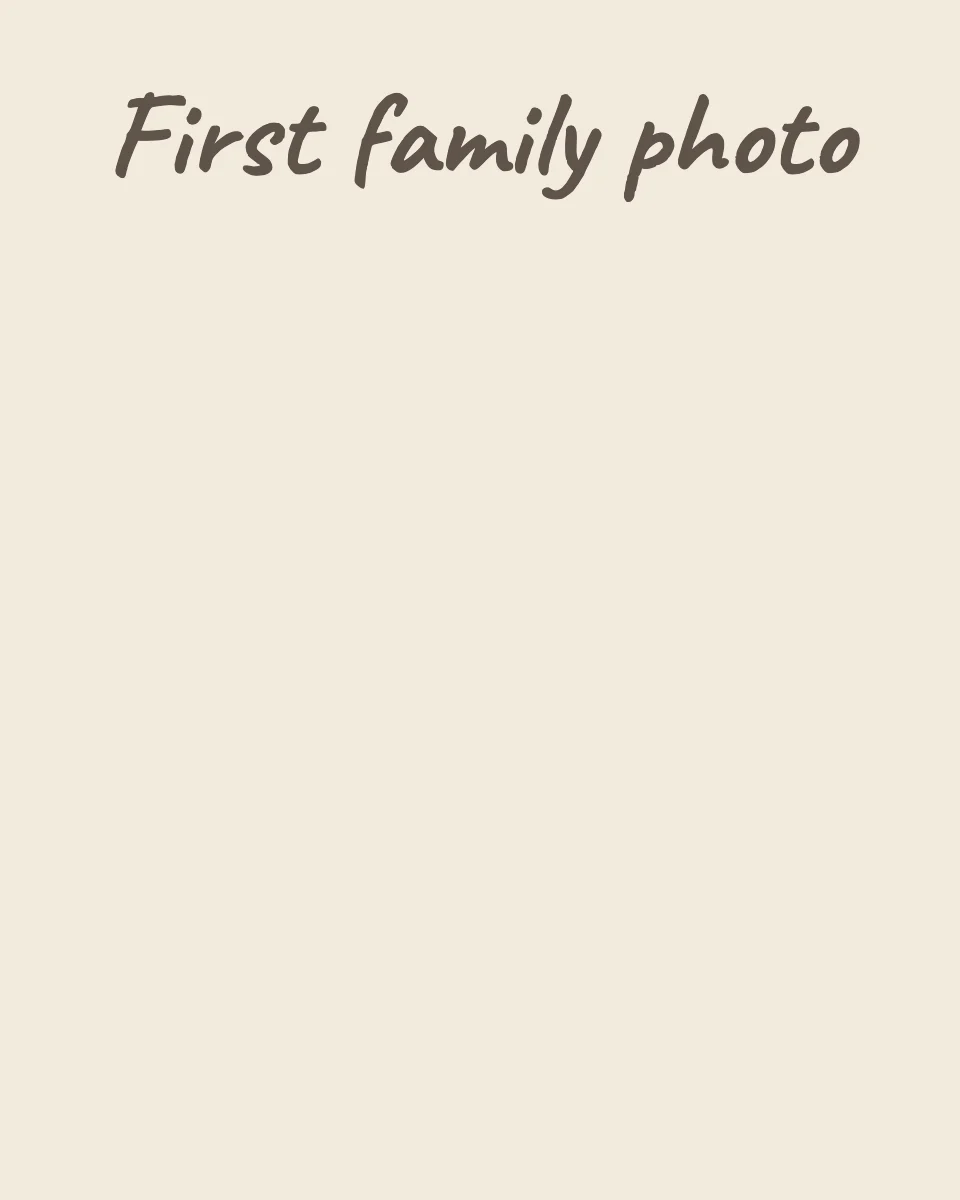
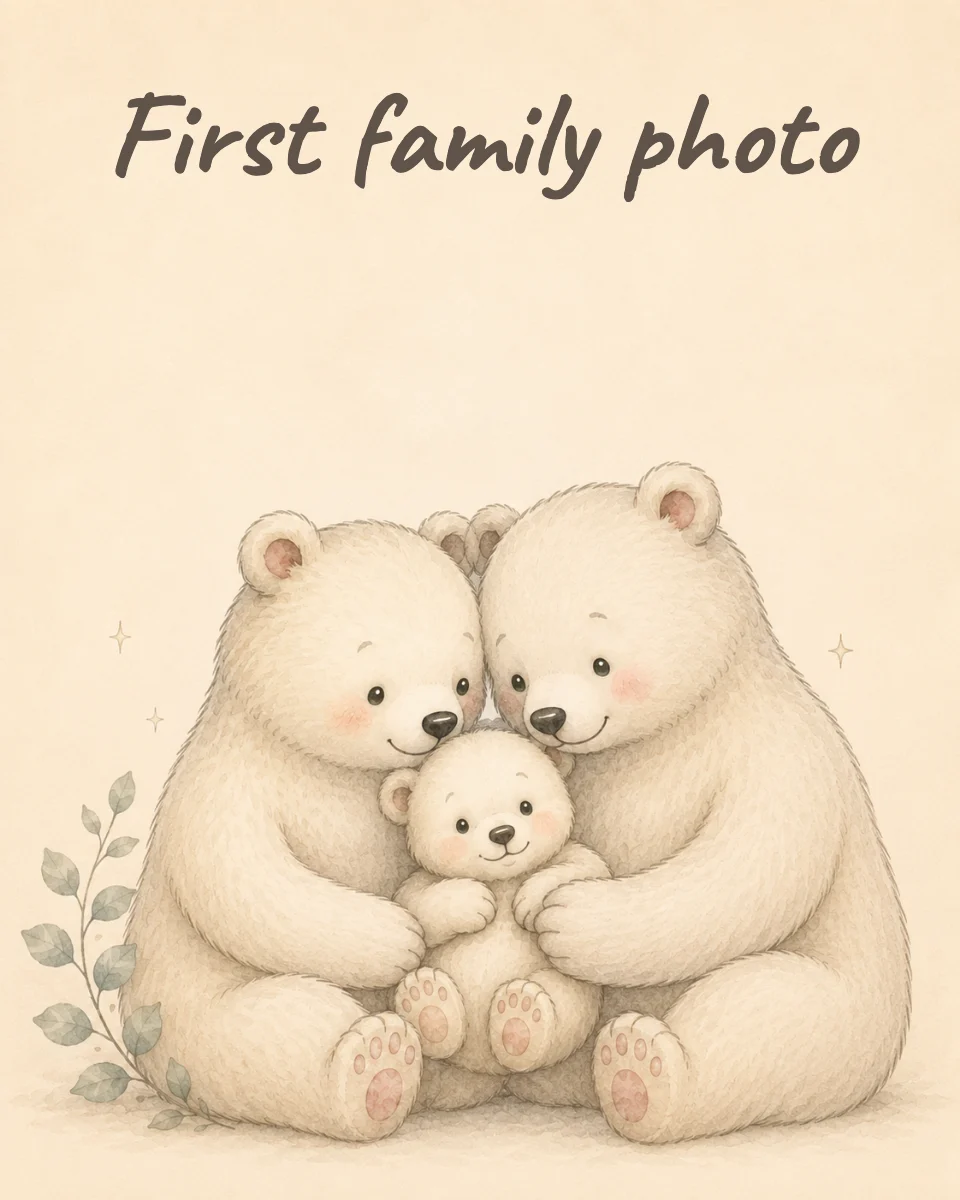
Moments art: batch D — the newborn heart + little loves (11 cards) + 2 new aliases
First family photo · First cuddle with Mama · First cuddle with Papa ·
First nap · Going home today · My first bath · I love my blanket · my
teddy · Mama · Papa — and "I love bath time" auto-filled from the bath
art. New aliases: "First family photo" (With family) inherits the newborn
family photo; "First time meeting family" inherits "My family" when that
base lands.

diff --git a/tools/compose_cards.js b/tools/compose_cards.js
@@ -30,6 +30,8 @@ const ART_ALIAS = {
   'LC-031': 'LC-019',                                                        // nine months pregnant -> the bump is growing
   'LC-183': 'LC-150',                                                        // I love dancing -> I danced today
   'LC-179': 'LC-067',                                                        // I love bath time -> My first bath
+  'LC-215': 'LC-060',                                                        // First family photo (With family) -> First family photo (Newborn)
+  'LC-232': 'LC-214',                                                        // First time meeting family -> My family
   'LC-218': 'LC-210', 'LC-220': 'LC-210', 'LC-222': 'LC-210', 'LC-224': 'LC-210',   // Mama variants -> Mama and me
   'LC-221': 'LC-211', 'LC-223': 'LC-211', 'LC-225': 'LC-211',                       // Papa variants -> Papa and me
   'LC-219': 'LC-214', 'LC-226': 'LC-214', 'LC-227': 'LC-214', 'LC-228': 'LC-214', 'LC-229': 'LC-214' // family variants -> My family

diff --git a/app/sw.js b/app/sw.js
@@ -1,6 +1,6 @@
 /* Cubby service worker.
    Bump CACHE on every deploy so old assets are cleared. */
-const CACHE = 'little-log-v160';
+const CACHE = 'little-log-v161';
 const ASSETS = [
   '/app/',
   '/app/index.html',
